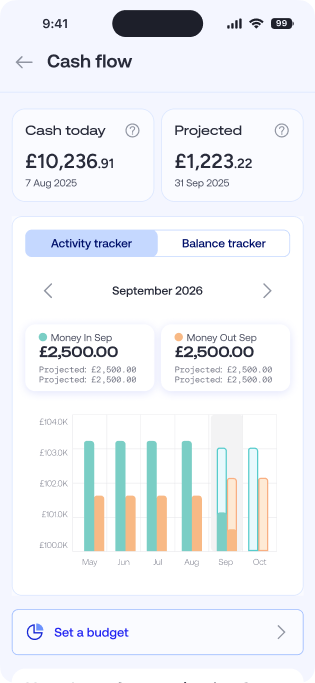
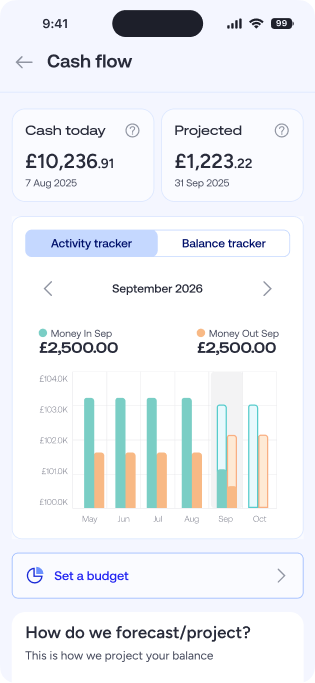
Reorder ScreenGallery mocks and add new Transactions mock: Tax Account first, then Transactions, Cash flow, Financial insights, Admin OS

diff --git a/src/pages/Home.tsx b/src/pages/Home.tsx
@@ -27,28 +27,20 @@ function Home() {
   const allScreens = useMemo(
     () => [
       {
-        id: 'accounting-os',
-        eyebrow: 'Admin OS',
-        title: 'All admin in one place',
-        description: 'A system of products designed to help small businesses owners navigate their administrative tasks with ease.',
-        imageSrc: encodeURI('/assets/✅ Admin - no tasks comeplete.png'),
-        imageAlt: 'Admin services home with task checklist'
-      },
-      {
-        id: 'activation',
-        eyebrow: 'Tax Product',
-        title: 'Tax deadlines and estimates',
-        description: 'Automated estimates and VAT management helps businesses prepare for tax obligations.',
-        imageSrc: encodeURI('/assets/Registered Business - VAT registered - Connected (subscribed).png'),
-        imageAlt: 'Registered business VAT estimates view'
-      },
-      {
         id: 'tax',
         eyebrow: 'Tax savings on autopilot',
         title: 'Predict and plan ahead',
         description: 'Tax savings account that saves on behalf of businesses and bears interest on the balance.',
         imageSrc: encodeURI('/assets/Tax Account timeline.png'),
         imageAlt: 'Tax account timeline and actions'
+      },
+      {
+        id: 'transactions',
+        eyebrow: 'Transactions',
+        title: 'Projected transactions view',
+        description: 'Comprehensive view of projected transactions and financial activity.',
+        imageSrc: encodeURI('/assets/Transactions/Populated/projected.png'),
+        imageAlt: 'Projected transactions view'
       },
       {
         id: 'cashflow',
@@ -67,12 +59,12 @@ function Home() {
         imageAlt: 'Financial insights and spending analysis'
       },
       {
-        id: 'bookkeeping',
-        eyebrow: 'Bookkeeping score',
-        title: 'Keep records clean and compliant',
-        description: 'Automated categorization and health scoring that guides members toward tax-ready books without manual effort.',
-        imageSrc: encodeURI('/assets/Bookkeeping - Slice 4.png'),
-        imageAlt: 'Bookkeeping score and smart categorization'
+        id: 'accounting-os',
+        eyebrow: 'Admin OS',
+        title: 'All admin in one place',
+        description: 'A system of products designed to help small businesses owners navigate their administrative tasks with ease.',
+        imageSrc: encodeURI('/assets/✅ Admin - no tasks comeplete.png'),
+        imageAlt: 'Admin services home with task checklist'
       }
     ],
     []
